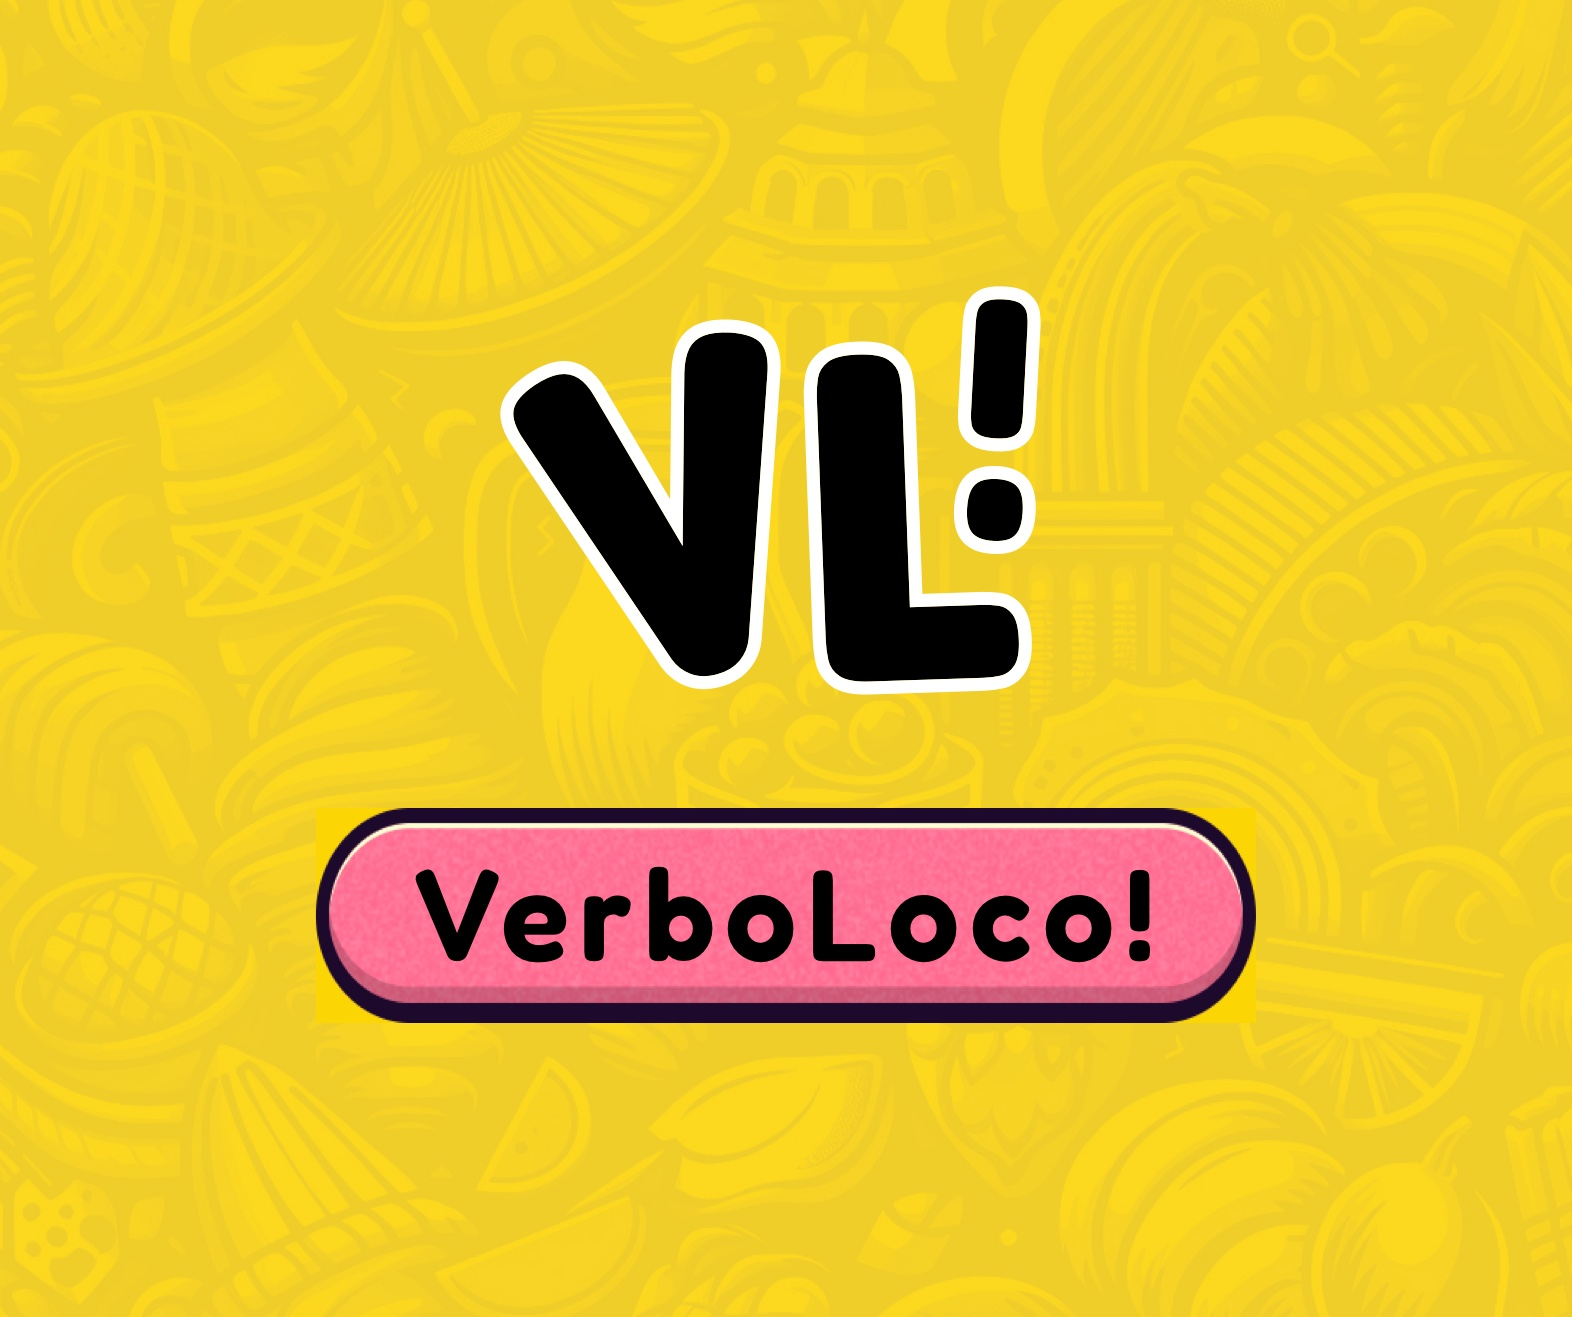
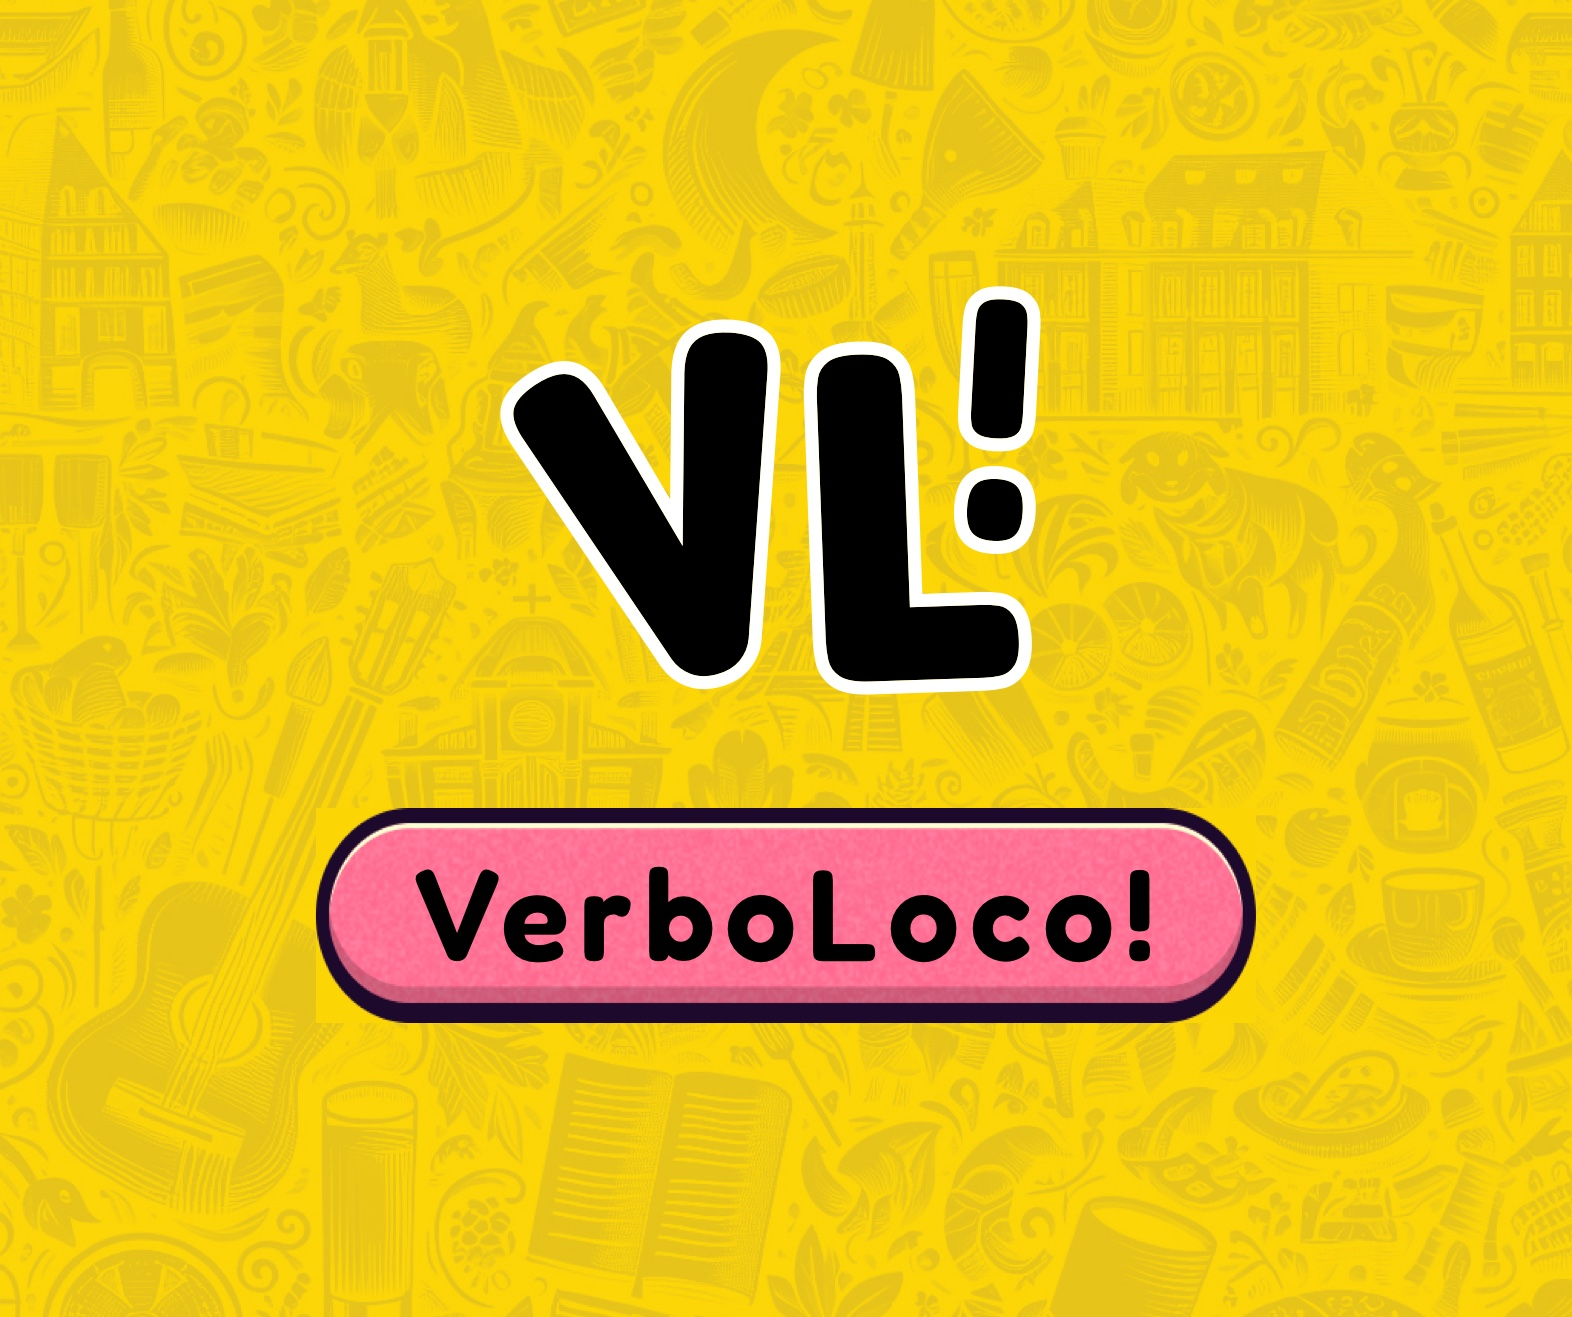
Updates the background texture

diff --git a/app/src/components/ModalBox.vue b/app/src/components/ModalBox.vue
@@ -1,13 +1,11 @@
 <template>
   <div
-    class="modal absolute min-h-full w-full z-40 inset-0 flex bg-yellow/50 backdrop-blur-md transition-opacity duration-300 p-5"
+    class="modal-container"
     :class="
       showModal != undefined ? 'opacity-100 pointer-events-auto' : 'opacity-0 pointer-events-none'
     "
   >
-    <div
-      class="modal-content w-full h-full overflow-y-auto bg-white text-black p-6 rounded shadow-lg"
-    >
+    <div class="modal-content">
       <div class="-m-6 flex border-b-2 mb-1">
         <button
           class="grow py-3"
@@ -49,3 +47,13 @@ export default {
   }
 }
 </script>
+
+<style scoped lang="postcss">
+.modal-container {
+  @apply absolute min-h-full w-full z-40 inset-0 flex bg-yellow/50 backdrop-blur-md transition-opacity duration-300 p-5;
+}
+
+.modal-content {
+  @apply w-full h-full overflow-y-auto bg-white text-black p-6 rounded shadow-lg overscroll-none;
+}
+</style>

diff --git a/app/src/assets/css/tailwind.css b/app/src/assets/css/tailwind.css
@@ -20,6 +20,7 @@ body {
 html {
   @apply h-full bg-yellow;
   background-image: url(/img/bg-site.jpg);
+  background-position: center center;
   background-size: cover;
   overscroll-behavior: none;
 }
